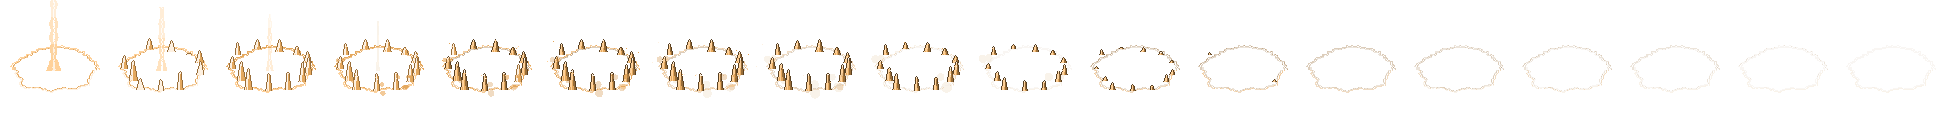
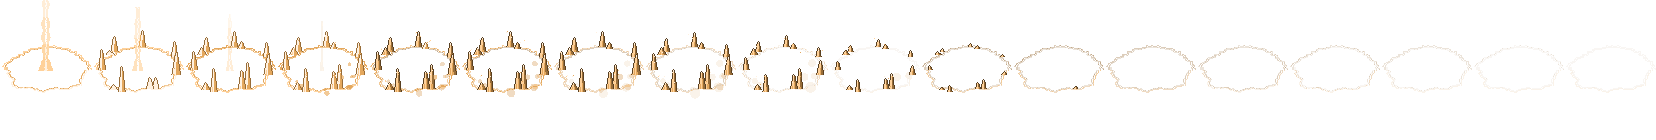
pixelfx D 组：塞雷娅钙质化开场晶刺改有疏有密、高矮悬殊（预审报一圈等距相同）

Changed region(s): [[0.0, 0.2571, 0.8007, 0.6571], [0.8315, 0.4286, 0.8623, 0.4857]]

diff --git a/tools/pixelfx_fx/earth/ak-saria-calcify.js b/tools/pixelfx_fx/earth/ak-saria-calcify.js
@@ -25,9 +25,9 @@ export function create(o) {
   lights.add(0, -16, 44, C[5], 0.5, 0.3);
   // 晶刺：沿椭圆不等距
   const shards = [];
-  for (let a = Rg.range(0, 0.5); a < TAU - 0.15; a += Rg.range(0.32, 0.75)) {
+  for (let a = Rg.range(0, 0.5); a < TAU - 0.15; a += Rg.chance(0.35) ? Rg.range(0.12, 0.22) : Rg.range(0.45, 1.1)) {   // 有疏有密：三成挨着长成一簇，其余隔开
     const rr = R0 * Rg.range(0.78, 1.0);
-    shards.push({ a, x: Math.cos(a) * rr, y: Math.sin(a) * rr * SY, h: Rg.range(10, 22) * (Math.sin(a) > 0 ? 1 : 0.75), w: Rg.range(4, 7), lean: Rg.range(-0.35, 0.35) + Math.cos(a) * 0.3, d: Rg.range(0, 0.06) });
+    shards.push({ a, x: Math.cos(a) * rr, y: Math.sin(a) * rr * SY, h: (Rg.chance(0.3) ? Rg.range(6, 11) : Rg.range(13, 26)) * (Math.sin(a) > 0 ? 1 : 0.75), w: Rg.range(3.5, 8), lean: Rg.range(-0.35, 0.35) + Math.cos(a) * 0.3, d: Rg.range(0, 0.06) });
   }
   shards.sort((p, q) => p.y - q.y);
   let t = 0, cracked = false;
